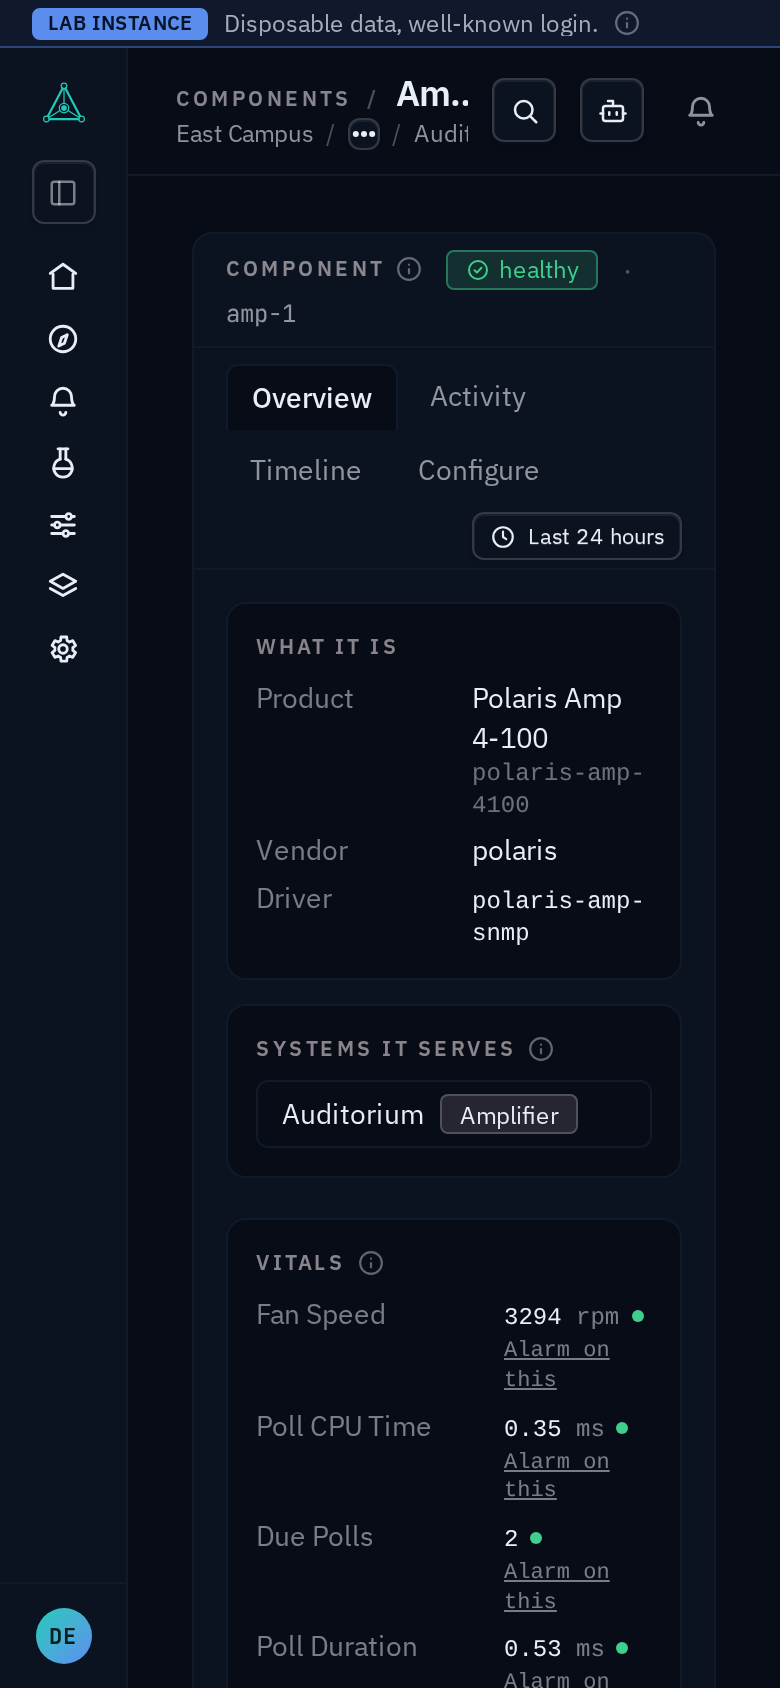
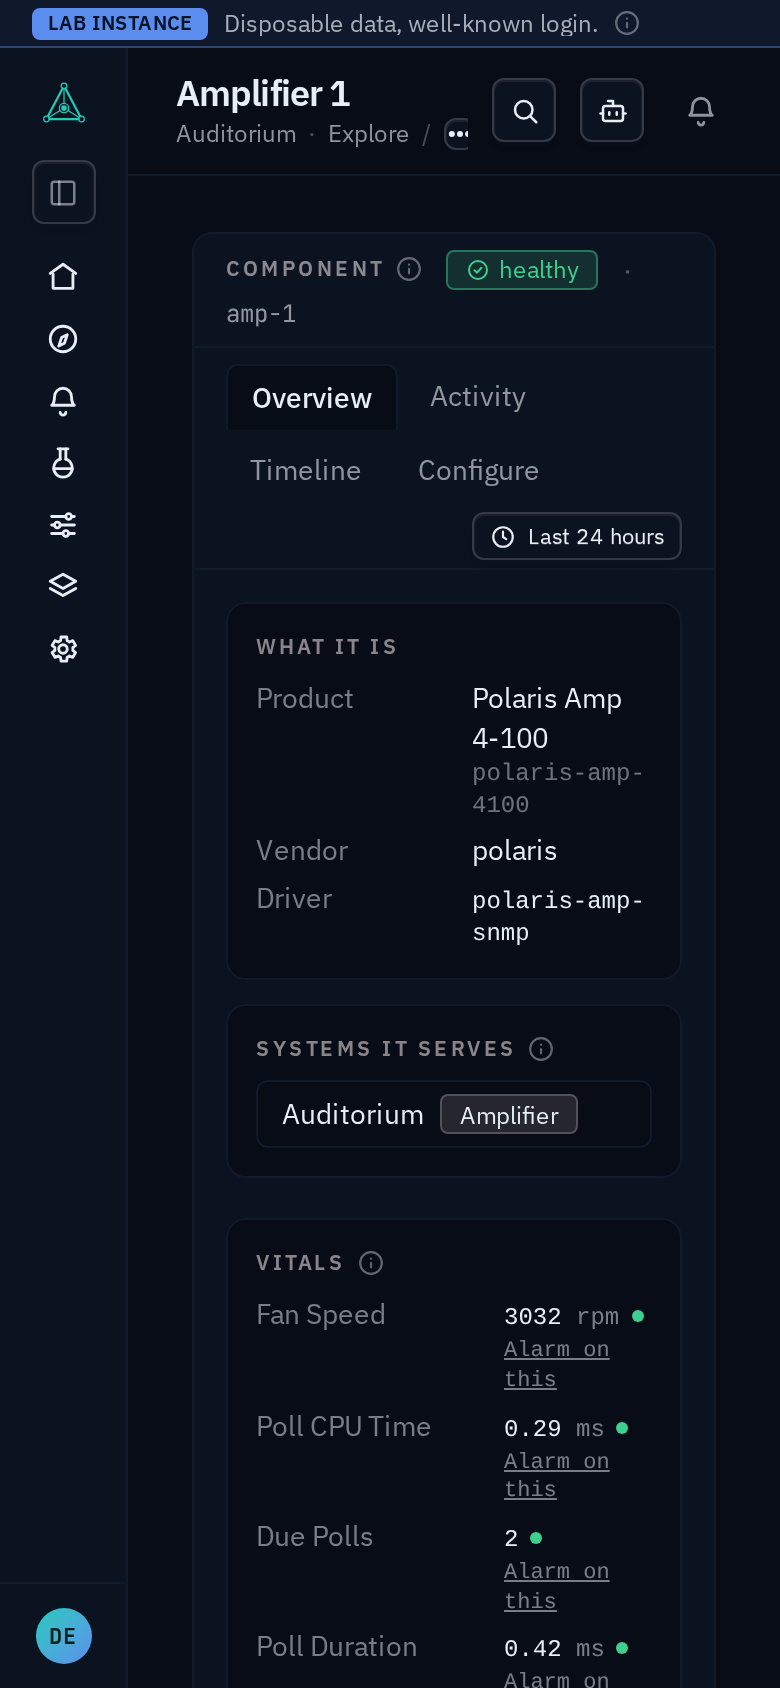
Lead line 2 with the system on a phone, ellipsise the last crumb, restore the Explore back link

Changed region(s): [[0.2154, 0.0308, 0.6154, 0.0924], [0.6769, 0.955, 0.7077, 0.9858], [0.6769, 0.7701, 0.7077, 0.8009]]

diff --git a/web/src/components/TopBar.tsx b/web/src/components/TopBar.tsx
@@ -14,11 +14,11 @@ import InboxIndicator from "./InboxIndicator";
 // command-palette trigger (a global jump, distinct from a page's own filter),
 // omnibot's panel for a person who may run it (#1167), and the inbox bell with
 // its unread count.
-function TrailLink(props: { crumb: Crumb }) {
+function TrailLink(props: { crumb: Crumb; class?: string }) {
   return (
-    <Show when={props.crumb.href} fallback={<span title={props.crumb.title ?? props.crumb.label}>{props.crumb.label}</span>}>
+    <Show when={props.crumb.href} fallback={<span class={props.class} title={props.crumb.title ?? props.crumb.label}>{props.crumb.label}</span>}>
       {(href) => (
-        <A href={href()} title={props.crumb.title ?? props.crumb.label} class="hover:text-base-content">
+        <A href={href()} title={props.crumb.title ?? props.crumb.label} class={`hover:text-base-content ${props.class ?? ""}`}>
           {props.crumb.label}
         </A>
       )}
@@ -29,7 +29,7 @@ function TrailLink(props: { crumb: Crumb }) {
 // A detail page's location path, the header's second line: every crumb a link,
 // the middle ones folded into an ellipsis menu when the measured width cannot
 // hold them (one line always, never wrapped).
-function Trail(props: { crumbs: Crumb[] }) {
+function Trail(props: { crumbs: Crumb[]; lead?: Crumb }) {
   const [width, setWidth] = createSignal(0);
   let el: HTMLElement | undefined;
   onMount(() => {
@@ -43,7 +43,10 @@ function Trail(props: { crumbs: Crumb[] }) {
   const sep = () => <span class="flex-none text-base-content/30">/</span>;
   return (
     <nav ref={el} aria-label="Breadcrumb" data-testid="breadcrumb" class="flex min-w-0 items-baseline gap-1.5 overflow-hidden whitespace-nowrap text-xs text-base-content/60">
-      <For each={parts().head}>{(c, i) => <>{i() > 0 && sep()}<TrailLink crumb={c} /></>}</For>
+      <Show when={props.lead}>
+        {(l) => <span data-testid="lead-system" class="flex flex-none items-baseline gap-1.5 sm:hidden"><TrailLink crumb={l()} /><span class="text-base-content/30">·</span></span>}
+      </Show>
+      <For each={parts().head}>{(c, i) => <>{i() > 0 && sep()}<TrailLink crumb={c} class={parts().tail.length === 0 && i() === parts().head.length - 1 ? "min-w-0 truncate" : ""} /></>}</For>
       <Show when={parts().hidden.length > 0}>
         {sep()}
         <Popover class="btn btn-quiet btn-xs btn-square h-4 min-h-0 w-4 flex-none self-center" aria-label="Show hidden path" title="Show hidden path" placement="bottom-start" contentClass="menu z-50 w-56 rounded-box border border-base-300 bg-base-100 p-1.5 shadow-2xl focus:outline-none" content={
@@ -54,7 +57,7 @@ function Trail(props: { crumbs: Crumb[] }) {
           <MoreHorizontal size={14} />
         </Popover>
       </Show>
-      <For each={parts().tail}>{(c) => <>{sep()}<TrailLink crumb={c} /></>}</For>
+      <For each={parts().tail}>{(c) => <>{sep()}<TrailLink crumb={c} class="min-w-0 truncate" /></>}</For>
     </nav>
   );
 }
@@ -70,17 +73,17 @@ export default function TopBar(props: { section: string; title?: string | JSX.El
           <Show when={props.kind} fallback={<Show when={props.section}>
             <span class="eyebrow flex-none text-base-content/70">{props.section.replaceAll(" · ", " / ")} /</span>
           </Show>}>
-            {(k) => <span class="eyebrow flex flex-none items-baseline gap-2 text-base-content/70"><TrailLink crumb={k()} /><span class="text-base-content/30">/</span></span>}
+            {(k) => <span data-kind class="eyebrow hidden flex-none items-baseline gap-2 text-base-content/70 sm:flex"><TrailLink crumb={k()} /><span class="text-base-content/30">/</span></span>}
           </Show>
           <h1 class="min-w-[4ch] shrink truncate text-lg font-semibold leading-tight tracking-tight">{props.title}</h1>
           <Show when={props.system}>
-            {(sys) => <span class="min-w-0 shrink truncate text-sm text-base-content/60">(<TrailLink crumb={sys()} />)</span>}
+            {(sys) => <span class="hidden min-w-0 shrink truncate text-sm sm:inline text-base-content/60">(<TrailLink crumb={sys()} />)</span>}
           </Show>
         </div>
         <Show when={props.trail?.length} fallback={<Show when={props.hint}>
           <p data-testid="header-line-2" class="hidden truncate text-xs text-base-content/60 lg:block">{props.hint}</p>
         </Show>}>
-          <div data-testid="header-line-2" class="min-w-0"><Trail crumbs={props.trail!} /></div>
+          <div data-testid="header-line-2" class="min-w-0"><Trail crumbs={props.trail!} lead={props.system} /></div>
         </Show>
       </div>
       <button

diff --git a/web/src/components/TopBar.test.tsx b/web/src/components/TopBar.test.tsx
@@ -41,6 +41,9 @@ describe("the top bar's omnibot button", () => {
   });
 });
 
+// The path's own links: the phone-only lead system is not a crumb.
+const crumbLinks = (el: HTMLElement) => within(el).getAllByRole("link").filter((a) => !a.closest('[data-testid="lead-system"]'));
+
 describe("TopBar two-line header (#2575)", () => {
   const crumbs = (n: number) => Array.from({ length: n }, (_, i) => ({ key: `c${i}`, label: `Place number ${i}`, href: `/locations/c${i}` }));
   const kind = { key: "kind", label: "Components", href: "/components" };
@@ -73,14 +76,30 @@ describe("TopBar two-line header (#2575)", () => {
     mount(2);
     const trail = screen.getByTestId("breadcrumb");
     expect(screen.getByTestId("header-line-1").contains(trail)).toBe(false);
-    expect(within(trail).getAllByRole("link").map((a) => a.textContent)).toEqual(["Place number 0", "Place number 1"]);
+    expect(crumbLinks(trail).map((a) => a.textContent)).toEqual(["Place number 0", "Place number 1"]);
     expect(screen.queryByRole("button", { name: "Show hidden path" })).toBeNull();
+  });
+
+  it("on a phone the system leads line 2 and line 1 drops the kind prefix", () => {
+    mount(2);
+    const line1 = screen.getByTestId("header-line-1");
+    expect(within(line1).getByRole("link", { name: "Components" }).closest("[data-kind]")!.className).toMatch(/hidden.*sm:flex/);
+    const lead = within(screen.getByTestId("header-line-2")).getByTestId("lead-system");
+    expect(lead.className).toContain("sm:hidden");
+    expect(lead.textContent).toContain("System ABC");
+  });
+
+  it("the last crumb truncates with an ellipsis instead of clipping", () => {
+    mount(2);
+    const links = crumbLinks(screen.getByTestId("breadcrumb"));
+    expect(links[links.length - 1].className).toMatch(/truncate/);
+    expect(links[links.length - 1].className).toMatch(/min-w-0/);
   });
 
   it("collapses the middle of a long path to an ellipsis menu that lists them as links", async () => {
     mount(6);
     const trail = screen.getByTestId("breadcrumb");
-    expect(within(trail).getAllByRole("link").map((a) => a.textContent)).toEqual(["Place number 0", "Place number 5"]);
+    expect(crumbLinks(trail).map((a) => a.textContent)).toEqual(["Place number 0", "Place number 5"]);
     fireEvent.click(screen.getByRole("button", { name: "Show hidden path" }));
     const menu = await screen.findByTestId("trail-menu");
     expect(within(menu).getAllByRole("link").map((a) => a.textContent)).toEqual(["Place number 1", "Place number 2", "Place number 3", "Place number 4"]);

diff --git a/web/src/pages/ComponentLeaf.tsx b/web/src/pages/ComponentLeaf.tsx
@@ -61,8 +61,8 @@ export default function ComponentLeaf() {
     const sid = primary()?.systemId;
     return component()?.location_id ?? (sid ? (view.data?.systems ?? []).find((s) => s.id === sid)?.location ?? null : null);
   };
-  // Line 2 is the location path; the primary system rides line 1 beside the label.
-  const crumbs = createMemo(() => (view.data ? locationPath(view.data, locationId()).map((c) => ({ key: c.id, label: c.label, href: `/locations/${c.id}` })) : []));
+  // Line 2 is the Explore back link then the location path; the primary system rides line 1 beside the label.
+  const crumbs = createMemo(() => (view.data ? [{ key: "explore", label: "Explore", href: `/explore?node=${encodeURIComponent(component()?.id ?? id())}` }, ...locationPath(view.data, locationId()).map((c) => ({ key: c.id, label: c.label, href: `/locations/${c.id}` }))] : []));
   const primarySystem = createMemo(() => {
     const s = (view.data?.systems ?? []).find((x) => x.id === primary()?.systemId);
     return s ? { key: s.id, label: entityLabel(s), href: `/systems/${s.id}` } : undefined;

diff --git a/web/src/pages/ComponentLeaf.test.tsx b/web/src/pages/ComponentLeaf.test.tsx
@@ -138,6 +138,16 @@ describe("the component leaf", () => {
     expect(screen.getByTestId("time-range-trigger")).toBeTruthy();
   });
 
+  it("links Explore back to this component's row in the outline, first crumb of line 2", async () => {
+    mount();
+    const trail = screen.getByTestId("breadcrumb");
+    expect(within(trail).getByRole("link", { name: "Explore" })).toBeTruthy();
+    expect(within(trail).getAllByRole("link").filter((a) => !a.closest('[data-testid="lead-system"]'))[0].textContent).toBe("Explore");
+    fireEvent.click(within(trail).getByRole("link", { name: "Explore" }));
+    expect(await screen.findByTestId("fleet-page")).toBeTruthy();
+    expect(window.location.pathname + window.location.search).toBe(`/web/explore?node=${uuidFor("cf-c-bar")}`);
+  });
+
   // The two-line header (#2575): line 1 is the kind's list, the label as the one
   // h1 and the primary system; line 2 is the location path, as links.
   it("line 1 reads Components / label (system), line 2 the location path, one h1, no body breadcrumb", () => {

diff --git a/web/e2e/console.spec.ts b/web/e2e/console.spec.ts
@@ -404,8 +404,13 @@ test.describe("operator console", () => {
     await page.waitForURL(new RegExp(`/web/systems/${systemId}$`));
     await expect(page.getByRole("heading", { level: 1 })).toHaveText(buildingLabel);
     await expect(page.getByTestId("location-card")).toBeVisible();
-    // Explore opens down to this row and selects it (#875).
-    await page.goto(`/web/explore?node=${systemId}`);
+    // The Explore crumb goes back up to where you were: the outline opened
+    // down to this row and selected. The crumb is a link (#875), its
+    // address in the DOM.
+    const exploreCrumb = page.getByTestId("breadcrumb").getByRole("link", { name: "Explore" });
+    await expect(exploreCrumb).toHaveAttribute("href", `/web/explore?node=${systemId}`);
+    await exploreCrumb.click();
+    await page.waitForURL(new RegExp(`/web/explore\\?node=${systemId}$`));
     await expect(rowOf(buildingLabel)).toHaveAttribute("aria-selected", "true");
 
     // The campus holds two buildings and no system: a folder, its own card

diff --git a/web/src/pages/SystemZoom.test.tsx b/web/src/pages/SystemZoom.test.tsx
@@ -972,6 +972,15 @@ describe("the location is context, the system the subject (#872)", () => {
     expect(window.location.pathname + window.location.search).toBe(`/web/locations/${uuidFor("szp-room")}?tab=configure`);
   });
 
+  // Going back up lands where you were (#872): the Explore crumb opens the
+  // outline down to this system's row, not at the top of the fleet.
+  it("links Explore back to this system's row in the outline", async () => {
+    mount();
+    fireEvent.click(within(screen.getByTestId("breadcrumb")).getByRole("link", { name: "Explore" }));
+    expect(await screen.findByTestId("fleet-page")).toBeTruthy();
+    expect(window.location.pathname + window.location.search).toBe(`/web/explore?node=${uuidFor("szp-sys")}`);
+  });
+
   it("gives an unplaced system its own title and no location card", () => {
     mount(`/web/systems/${uuidFor("szp-other")}`);
     expect(pageHeader()?.title).toBe("Overflow Room");

diff --git a/web/src/pages/SystemZoom.tsx b/web/src/pages/SystemZoom.tsx
@@ -46,7 +46,7 @@ export default function SystemZoom() {
   const sole = createMemo(() => (view.data && locationId() ? systemsAtLocation(view.data, locationId()!).length === 1 : false));
   const title = () => (sole() && location() ? entityLabel(location()!) : system() ? entityLabel(system()!) : "System");
 
-  const crumbs = createMemo(() => (view.data ? systemCrumbs(view.data, id()) : []).map((c) => ({ key: c.id, label: c.label, href: `/locations/${c.id}` })));
+  const crumbs = createMemo(() => [{ key: "explore", label: "Explore", href: `/explore?node=${encodeURIComponent(id())}` }, ...(view.data ? systemCrumbs(view.data, id()) : []).map((c) => ({ key: c.id, label: c.label, href: `/locations/${c.id}` }))]);
 
   // A miss is judged only once the fleet view is current: the create
   // handoff lands here while the cached view predates the new row.

diff --git a/web/src/pages/LocationZoom.test.tsx b/web/src/pages/LocationZoom.test.tsx
@@ -216,6 +216,13 @@ describe("a folder location (#872)", () => {
     expect(within(screen.getByTestId("header-line-1")).getByRole("link", { name: "Locations" })).toBeTruthy();
   });
 
+  it("links Explore back to this location's row in the outline", async () => {
+    mount(`/web/locations/${uuidFor("lz-b1")}`);
+    fireEvent.click(within(screen.getByTestId("breadcrumb")).getByRole("link", { name: "Explore" }));
+    expect(await screen.findByTestId("fleet-page")).toBeTruthy();
+    expect(window.location.pathname + window.location.search).toBe(`/web/explore?node=${uuidFor("lz-b1")}`);
+  });
+
   it("gives each system it holds a brief card, with its health and its gap, opening the system", async () => {
     mount();
     const lobby = screen.getByTestId(`system-summary-${uuidFor("lz-s-lobby")}`);

diff --git a/web/src/pages/LocationZoom.tsx b/web/src/pages/LocationZoom.tsx
@@ -66,7 +66,11 @@ export default function LocationZoom() {
     if (!view.data) return [];
     const chain = ancestors(id(), locationIndex(view.data));
     // The path ends at the parent: the location itself is the page title.
-    return chain.slice(0, -1).map((l) => ({ key: l.id, label: entityLabel(l), href: `/locations/${l.id}` }));
+    return [
+      // Back up lands where you were: the outline opened down to this row.
+      { key: "explore", label: "Explore", href: `/explore?node=${encodeURIComponent(id())}` },
+      ...chain.slice(0, -1).map((l) => ({ key: l.id, label: entityLabel(l), href: `/locations/${l.id}` })),
+    ];
   });
 
   // A miss is judged only once the fleet view is current: the create
